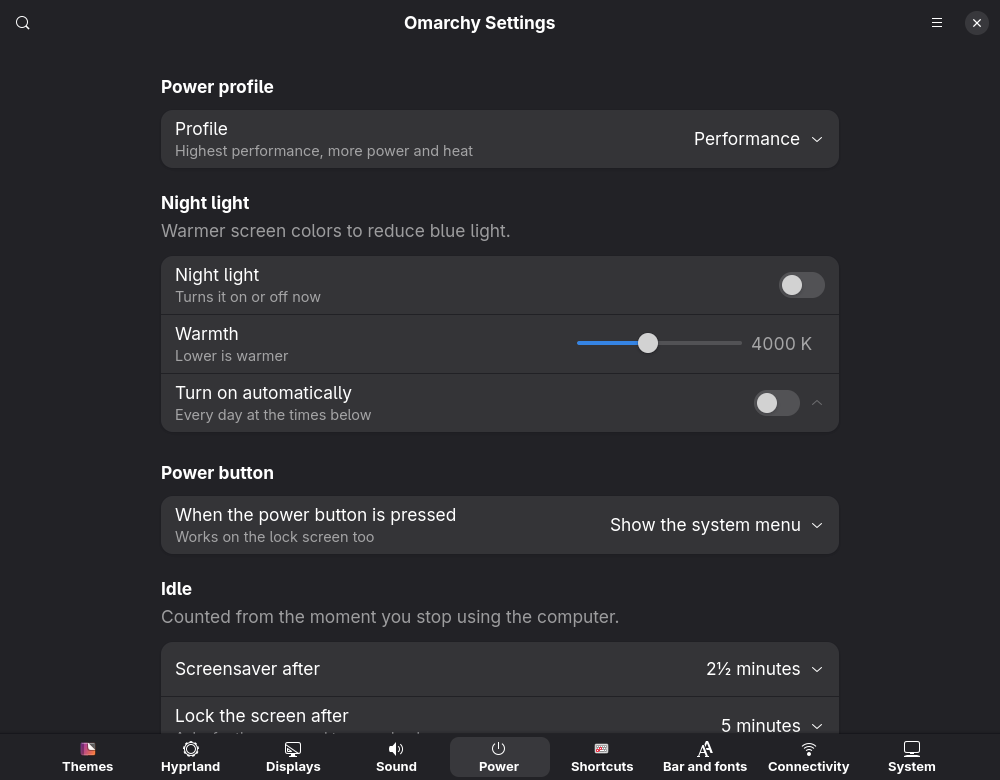
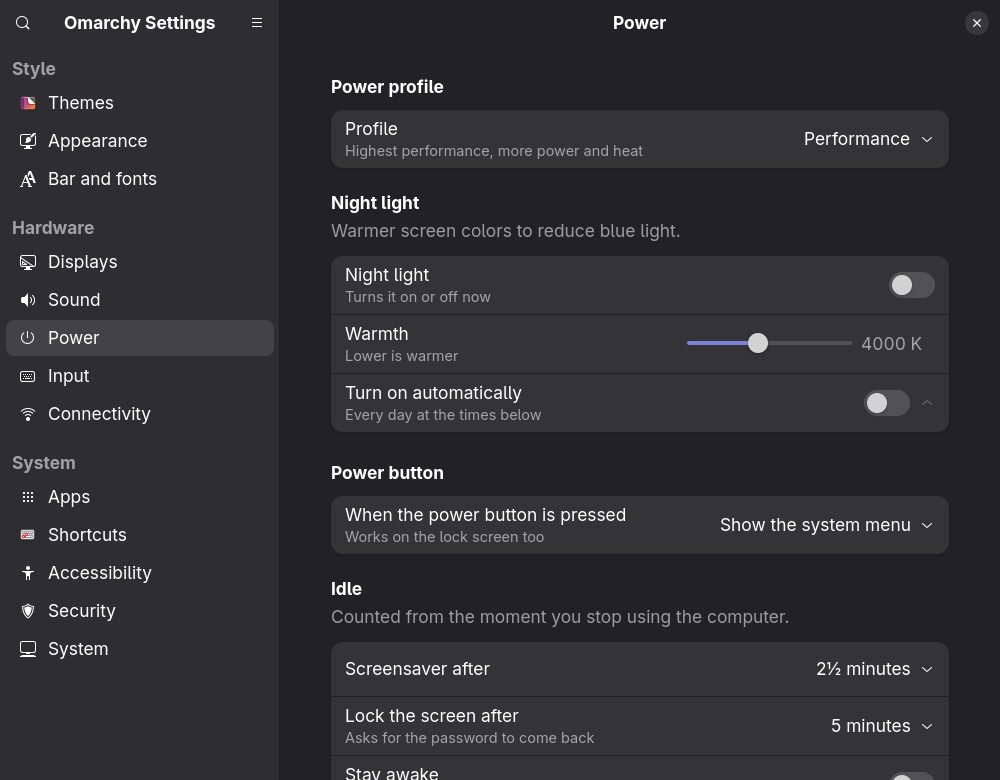
Refresh the README screenshots
New sidebar layout, with the Appearance and Apps pages. Rendered from
GTK in English; Sound and Apps show made-up streams and web apps, and
System is scrolled past the time zone.

diff --git a/README.md b/README.md
@@ -42,9 +42,10 @@ matter, and choosing a result opens its page, expands what is around it and high
 
 | | |
 |---|---|
-| ![Hyprland page](docs/screenshots/hyprland.png) Hyprland | ![Displays page](docs/screenshots/monitors.png) Displays |
+| ![Appearance page](docs/screenshots/appearance.png) Appearance | ![Displays page](docs/screenshots/monitors.png) Displays |
 | ![Sound page](docs/screenshots/sound.png) Sound | ![Power page](docs/screenshots/power.png) Power |
-| ![System page](docs/screenshots/system.png) System | ![Search dialog](docs/screenshots/search.png) Search (Ctrl+F) |
+| ![Apps page](docs/screenshots/apps.png) Apps | ![System page](docs/screenshots/system.png) System |
+| ![Search dialog](docs/screenshots/search.png) Search (Ctrl+F) | |
 
 ## How settings are stored
 
